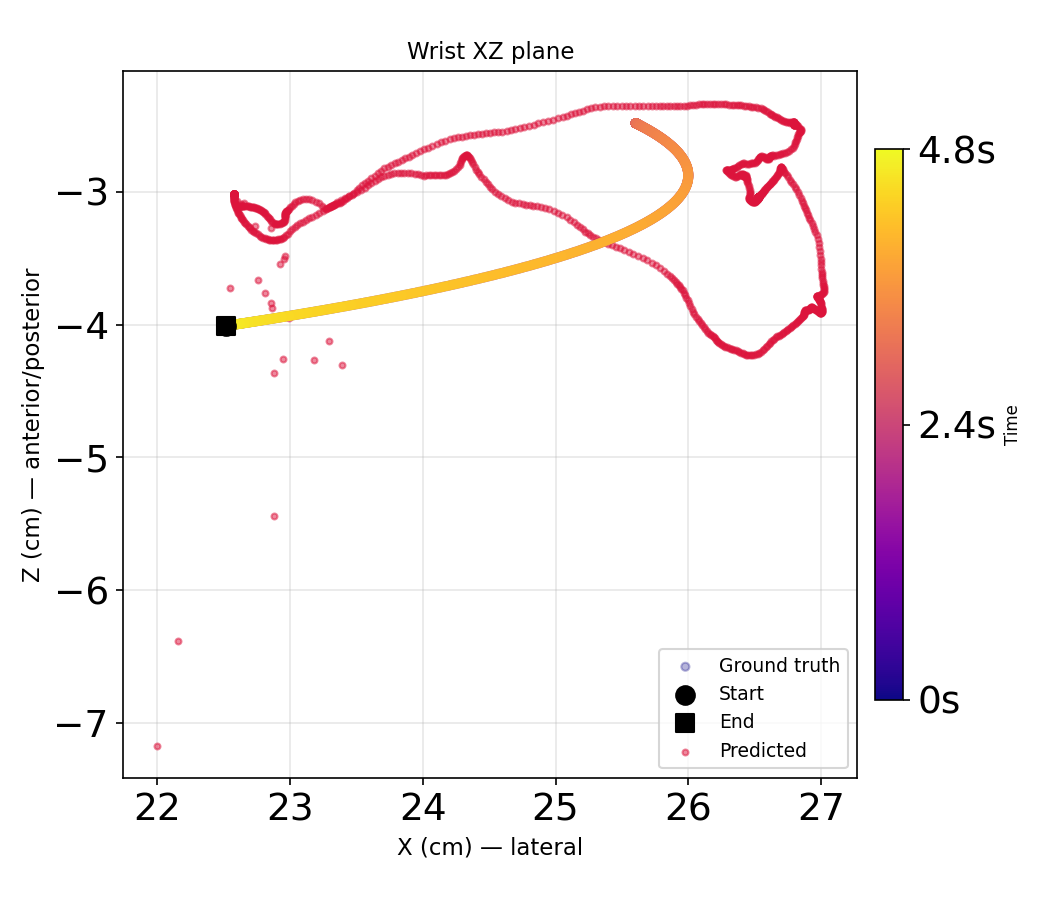
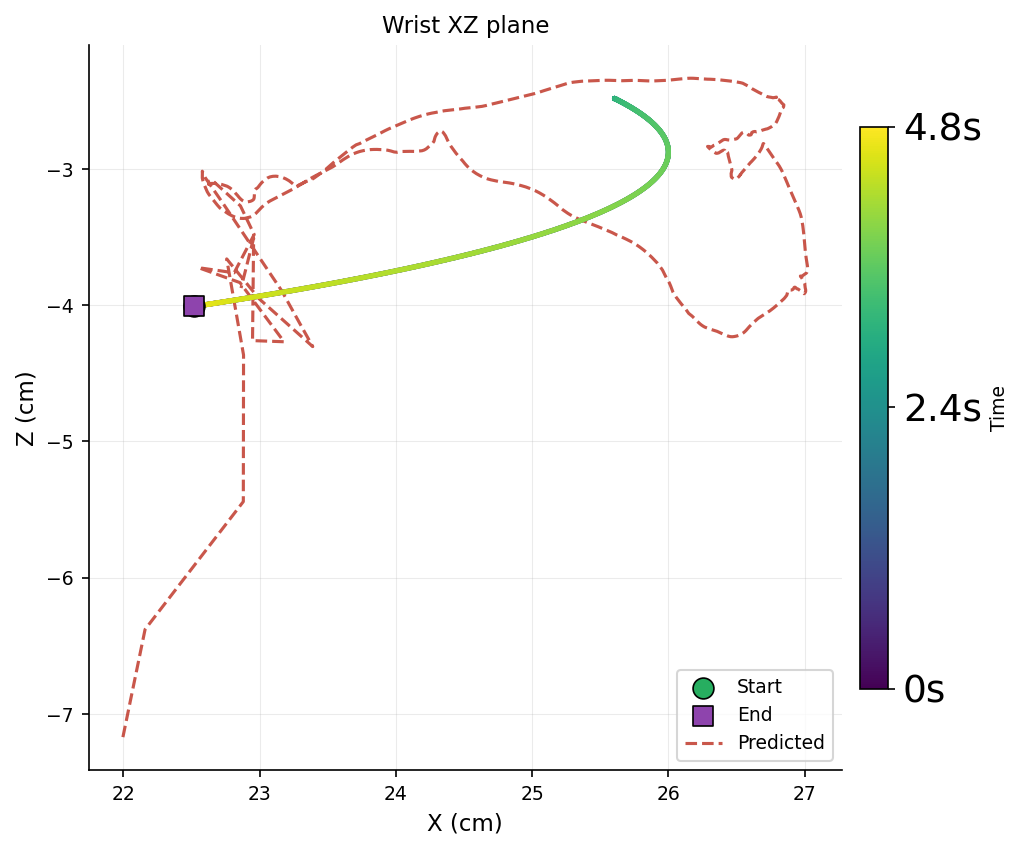
test again

diff --git a/dataexp/movanalysis/newinference.py b/dataexp/movanalysis/newinference.py
@@ -184,79 +184,100 @@ print(f"  Mean L2 distance:         {mean_l2:.3f} cm")
 print(f"  Max L2 distance:          {max_l2:.3f} cm")
 print("="*50)
 
-# ------------------------------------------------------------------------------
-# 6. Figure A: 2D XZ trajectory (Y flattened)
-# ------------------------------------------------------------------------------
+# ============================================================
+# FIGURE A: 7-panel time series
+# ============================================================
+BLACK   = "#1a1a1a"
+CRIMSON = "#c0392b"
+ORANGE  = "#e67e22"
+
+plot_cols = [
+    (true[:, 4], pred[:, 4], "Shoulder elevation (deg)", sh_elv_rmse),
+    (true[:, 5], pred[:, 5], "Shoulder rotation (deg)",  sh_rot_rmse),
+    (true[:, 6], pred[:, 6], "Elbow flexion (deg)",      elbow_rmse),
+    (true[:, 0], pred[:, 0], "Wrist X (cm)", np.sqrt(np.mean((pred[:,0]-true[:,0])**2))),
+    (true[:, 1], pred[:, 1], "Wrist Y (cm)", np.sqrt(np.mean((pred[:,1]-true[:,1])**2))),
+    (true[:, 2], pred[:, 2], "Wrist Z (cm)", np.sqrt(np.mean((pred[:,2]-true[:,2])**2))),
+]
+
+fig2, axes = plt.subplots(7, 1, figsize=(11, 20), sharex=True,
+                          gridspec_kw={"hspace": 0.45})
+
+for ax, (true_vals, pred_vals, ylabel, col_rmse) in zip(axes[:6], plot_cols):
+    ax.plot(t, true_vals, c=BLACK,   linewidth=1.8, label="Ground truth", zorder=3)
+    ax.plot(t, pred_vals, c=CRIMSON, linewidth=1.5, linestyle="--", label="Predicted", zorder=2)
+    ax.set_ylabel(ylabel, fontsize=9, labelpad=4)
+    ax.text(0.01, 0.93, f"RMSE: {col_rmse:.3f}",
+            transform=ax.transAxes, fontsize=8, va='top', color='dimgray',
+            bbox=dict(facecolor='white', edgecolor='none', alpha=0.7, pad=1))
+    ax.legend(fontsize=8, loc="upper right", framealpha=0.7)
+    ax.spines[['top','right']].set_visible(False)
+    ax.tick_params(labelsize=8)
+
+axes[6].fill_between(t, 0, l2_per_timepoint, color=ORANGE, alpha=0.25)
+axes[6].plot(t, l2_per_timepoint, c=ORANGE, linewidth=1.5, zorder=3)
+axes[6].axhline(mean_l2, c=ORANGE, linewidth=1.2, linestyle="--", alpha=0.9,
+                label=f"Mean: {mean_l2:.2f} cm")
+axes[6].set_ylabel("Wrist L2\ndistance (cm)", fontsize=9, labelpad=4)
+axes[6].set_xlabel("Time (s)", fontsize=10)
+axes[6].legend(fontsize=8, loc="upper right", framealpha=0.7)
+axes[6].spines[['top','right']].set_visible(False)
+axes[6].tick_params(labelsize=8)
+
+fig2.suptitle(
+    f"Horizontal elbow sweep prediction vs. ground truth\n"
+    f"sh_elv RMSE {sh_elv_rmse:.2f}°   sh_rot RMSE {sh_rot_rmse:.2f}°   "
+    f"elbow RMSE {elbow_rmse:.2f}°   wrist RMSE {wrist_rmse:.2f} cm   "
+    f"mean L2 {mean_l2:.2f} cm",
+    fontsize=10, y=1.00
+)
+plt.tight_layout()
+plt.savefig(os.path.join(SAVE_DIR, "pred_vs_truth_final.png"),
+            dpi=150, bbox_inches="tight")
+print("Saved pred_vs_truth_final.png")
+plt.close()
+
+# ============================================================
+# FIGURE B: XZ trajectory comparison
+# ============================================================
 from matplotlib.colors import Normalize
 
-fig, ax = plt.subplots(figsize=(7, 6))
-cmap   = plt.cm.plasma
-norm   = Normalize(vmin=0, vmax=TIME_STEPS)
-alphas = np.linspace(0.3, 1, TIME_STEPS)
-colors = [(cmap(norm(i))[0], cmap(norm(i))[1], cmap(norm(i))[2], alphas[i])
-          for i in range(TIME_STEPS)]
+fig3, ax3 = plt.subplots(figsize=(7, 6))
 
-ax.scatter(true[:, 0], true[:, 2], c=colors, s=15, label="Ground truth", zorder=3)
-ax.scatter(true[0, 0],  true[0, 2],  c='black', s=80, zorder=5, marker='o', label="Start")
-ax.scatter(true[-1, 0], true[-1, 2], c='black', s=80, zorder=5, marker='s', label="End")
-ax.scatter(pred[:, 0], pred[:, 2], c='crimson', s=8, alpha=0.5, label="Predicted", zorder=2)
+N    = len(t)
+cmap = plt.cm.viridis
+norm = Normalize(vmin=0, vmax=N-1)
 
-ax.set_xlabel("X (cm) — lateral", fontsize=11)
-ax.set_ylabel("Z (cm) — anterior/posterior", fontsize=11)
-ax.set_title("Wrist XZ plane", fontsize=11)
-ax.legend(fontsize=9)
-ax.grid(True, alpha=0.3)
-ax.set_aspect('equal')
+for i in range(N-1):
+    ax3.plot(true[:, 0][i:i+2], true[:, 2][i:i+2],
+             c=cmap(norm(i)), linewidth=2.5, solid_capstyle='round', zorder=3)
+
+ax3.scatter(true[0, 0],  true[0, 2],  c='#27ae60', s=100, zorder=5,
+            marker='o', label="Start", edgecolors='black', linewidth=0.8)
+ax3.scatter(true[-1, 0], true[-1, 2], c='#8e44ad', s=100, zorder=5,
+            marker='s', label="End",   edgecolors='black', linewidth=0.8)
+
+ax3.plot(pred[:, 0], pred[:, 2], c="#c0392b", linewidth=1.5,
+         linestyle="--", alpha=0.85, label="Predicted", zorder=2)
 
 sm = plt.cm.ScalarMappable(cmap=cmap, norm=norm)
 sm.set_array([])
-cbar = plt.colorbar(sm, ax=ax, shrink=0.7, pad=0.02)
-cbar.set_label("Time", fontsize=8)
-cbar.set_ticks([0, TIME_STEPS//2, TIME_STEPS])
+cbar = fig3.colorbar(sm, ax=ax3, shrink=0.7, pad=0.02)
+cbar.set_label("Time", fontsize=9)
+cbar.set_ticks([0, N//2, N-1])
 cbar.set_ticklabels(["0s", "2.4s", "4.8s"])
 
+ax3.set_xlabel("X (cm)", fontsize=11)
+ax3.set_ylabel("Z (cm)", fontsize=11)
+ax3.set_title("Wrist XZ plane", fontsize=11)
+ax3.legend(fontsize=9, loc="lower right")
+ax3.grid(True, alpha=0.25, linewidth=0.5)
+ax3.set_aspect('equal')
+ax3.spines[['top','right']].set_visible(False)
+ax3.tick_params(labelsize=9)
+
 plt.tight_layout()
-plt.savefig(os.path.join(SAVE_DIR, "traj_xz_comparison.png"), dpi=150)
-print(f"Saved traj_xz_comparison.png")
-
-# ------------------------------------------------------------------------------
-# 7. Figure B: 7-panel time series (clean single figure)
-# ------------------------------------------------------------------------------
-plot_cols = [
-    (4, "Shoulder elevation (deg)"),
-    (5, "Shoulder rotation (deg)"),
-    (6, "Elbow flexion (deg)"),
-    (0, "Wrist X (cm)"),
-    (1, "Wrist Y (cm)"),
-    (2, "Wrist Z (cm)"),
-]
-
-fig2, axes = plt.subplots(7, 1, figsize=(10, 18), sharex=True)
-
-for i, (ax, (col_idx, col_name)) in enumerate(zip(axes[:6], plot_cols)):
-    rmse = np.sqrt(np.mean((pred[:, col_idx] - true[:, col_idx])**2))
-    ax.plot(t, true[:, col_idx], c="black",   label="Ground truth", linewidth=1.5)
-    ax.plot(t, pred[:, col_idx], c="crimson", label="Predicted",    linewidth=1.5, linestyle="--")
-    ax.set_ylabel(col_name, fontsize=9)
-    ax.set_title(f"RMSE: {rmse:.3f}", fontsize=8, loc="left", pad=2)
-    ax.legend(fontsize=8, loc="upper right")
-
-# L2 distance panel
-axes[6].plot(t, l2_per_timepoint, c="darkorange", linewidth=1.5)
-axes[6].axhline(mean_l2, c="darkorange", linewidth=1, linestyle="--", alpha=0.7,
-                label=f"Mean: {mean_l2:.2f} cm")
-axes[6].set_ylabel("L2 distance (cm)", fontsize=9)
-axes[6].set_xlabel("Time (s)", fontsize=9)
-axes[6].set_title("Wrist spatial error per timepoint", fontsize=8, loc="left", pad=2)
-axes[6].legend(fontsize=8)
-
-fig2.suptitle(
-    f"Horizontal elbow sweep prediction vs. truth\n"
-    f"sh_elv RMSE: {sh_elv_rmse:.2f}°  |  sh_rot RMSE: {sh_rot_rmse:.2f}°  |  "
-    f"elbow RMSE: {elbow_rmse:.2f}°  |  wrist RMSE: {wrist_rmse:.2f} cm  |  "
-    f"mean L2: {mean_l2:.2f} cm",
-    fontsize=10
-)
-plt.tight_layout()
-plt.savefig(os.path.join(SAVE_DIR, "pred_vs_truth_final.png"), dpi=150, bbox_inches="tight")
-print("Saved pred_vs_truth_final.png")
+plt.savefig(os.path.join(SAVE_DIR, "traj_xz_comparison.png"),
+            dpi=150, bbox_inches="tight")
+print("Saved traj_xz_comparison.png")
+plt.close()